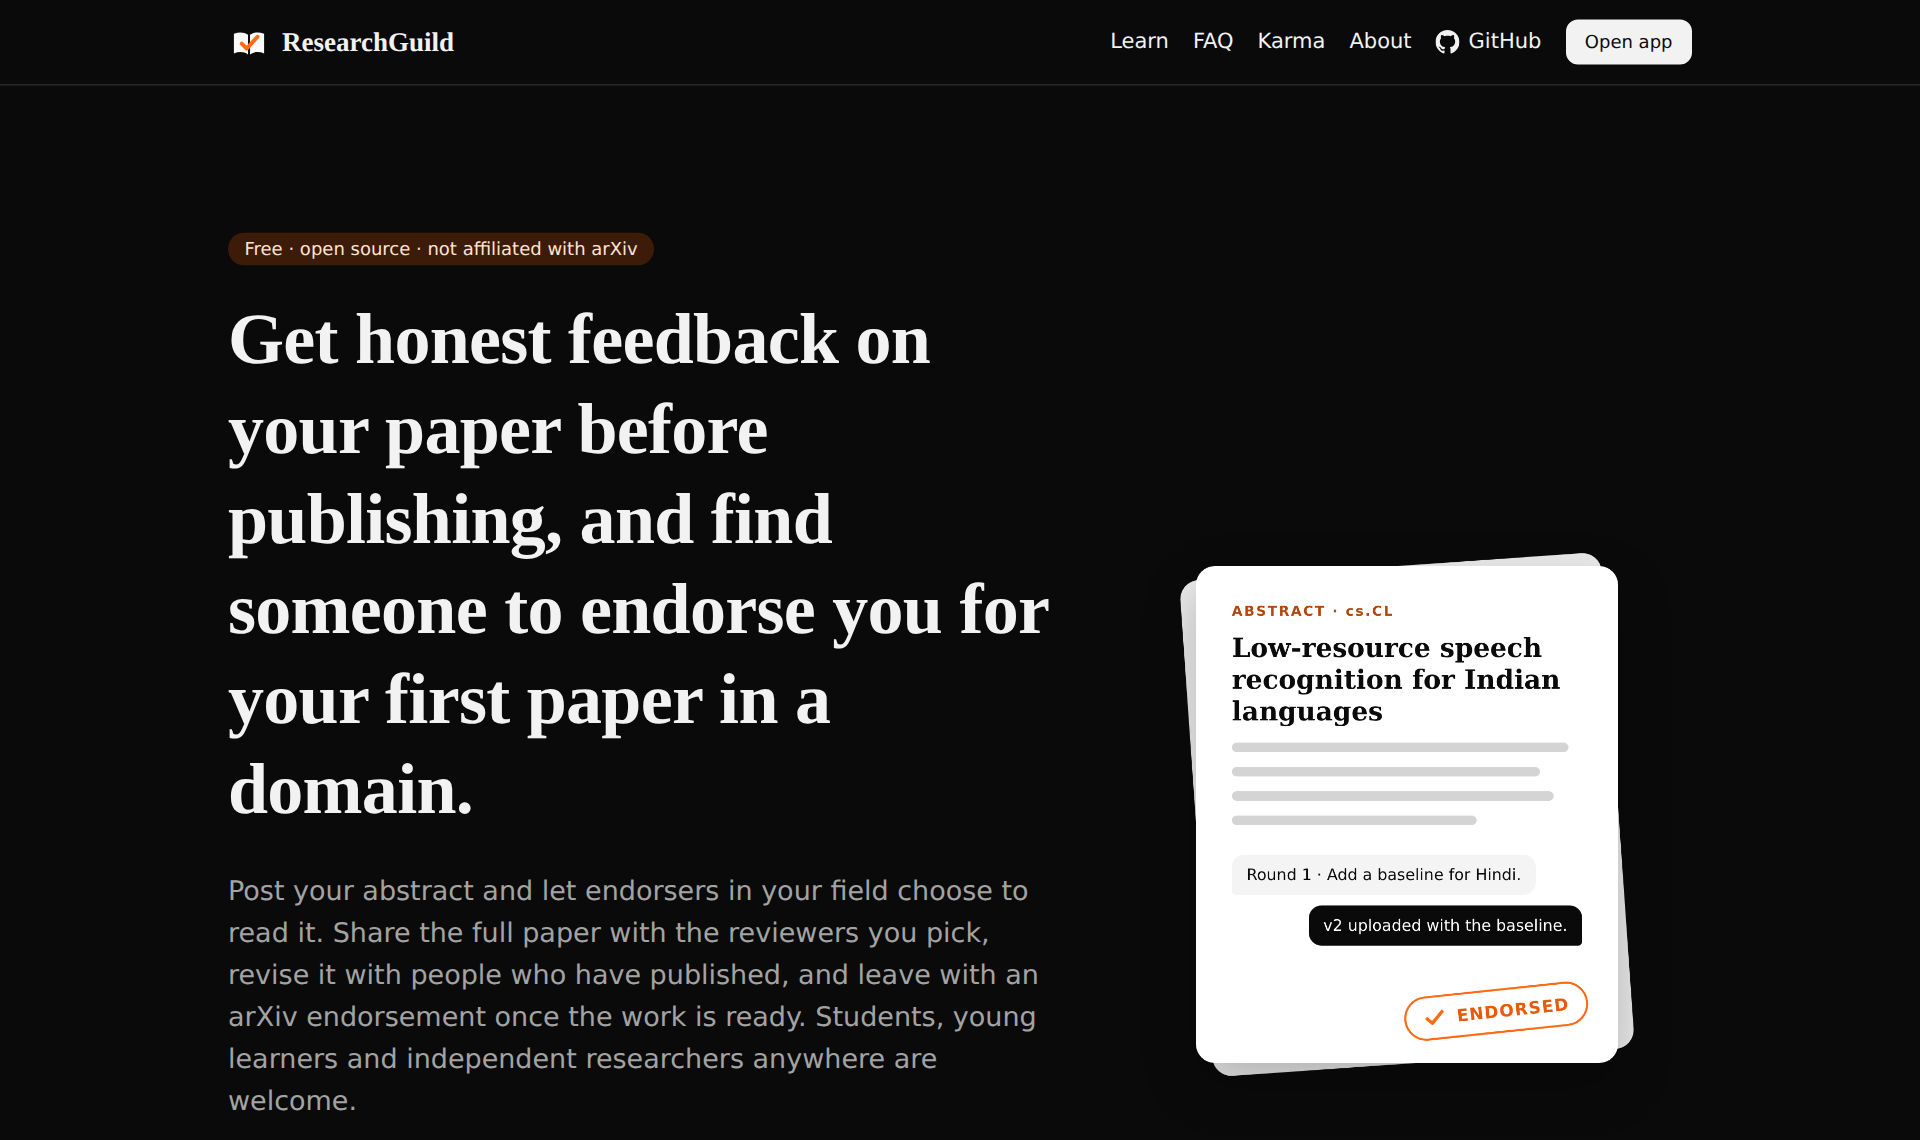
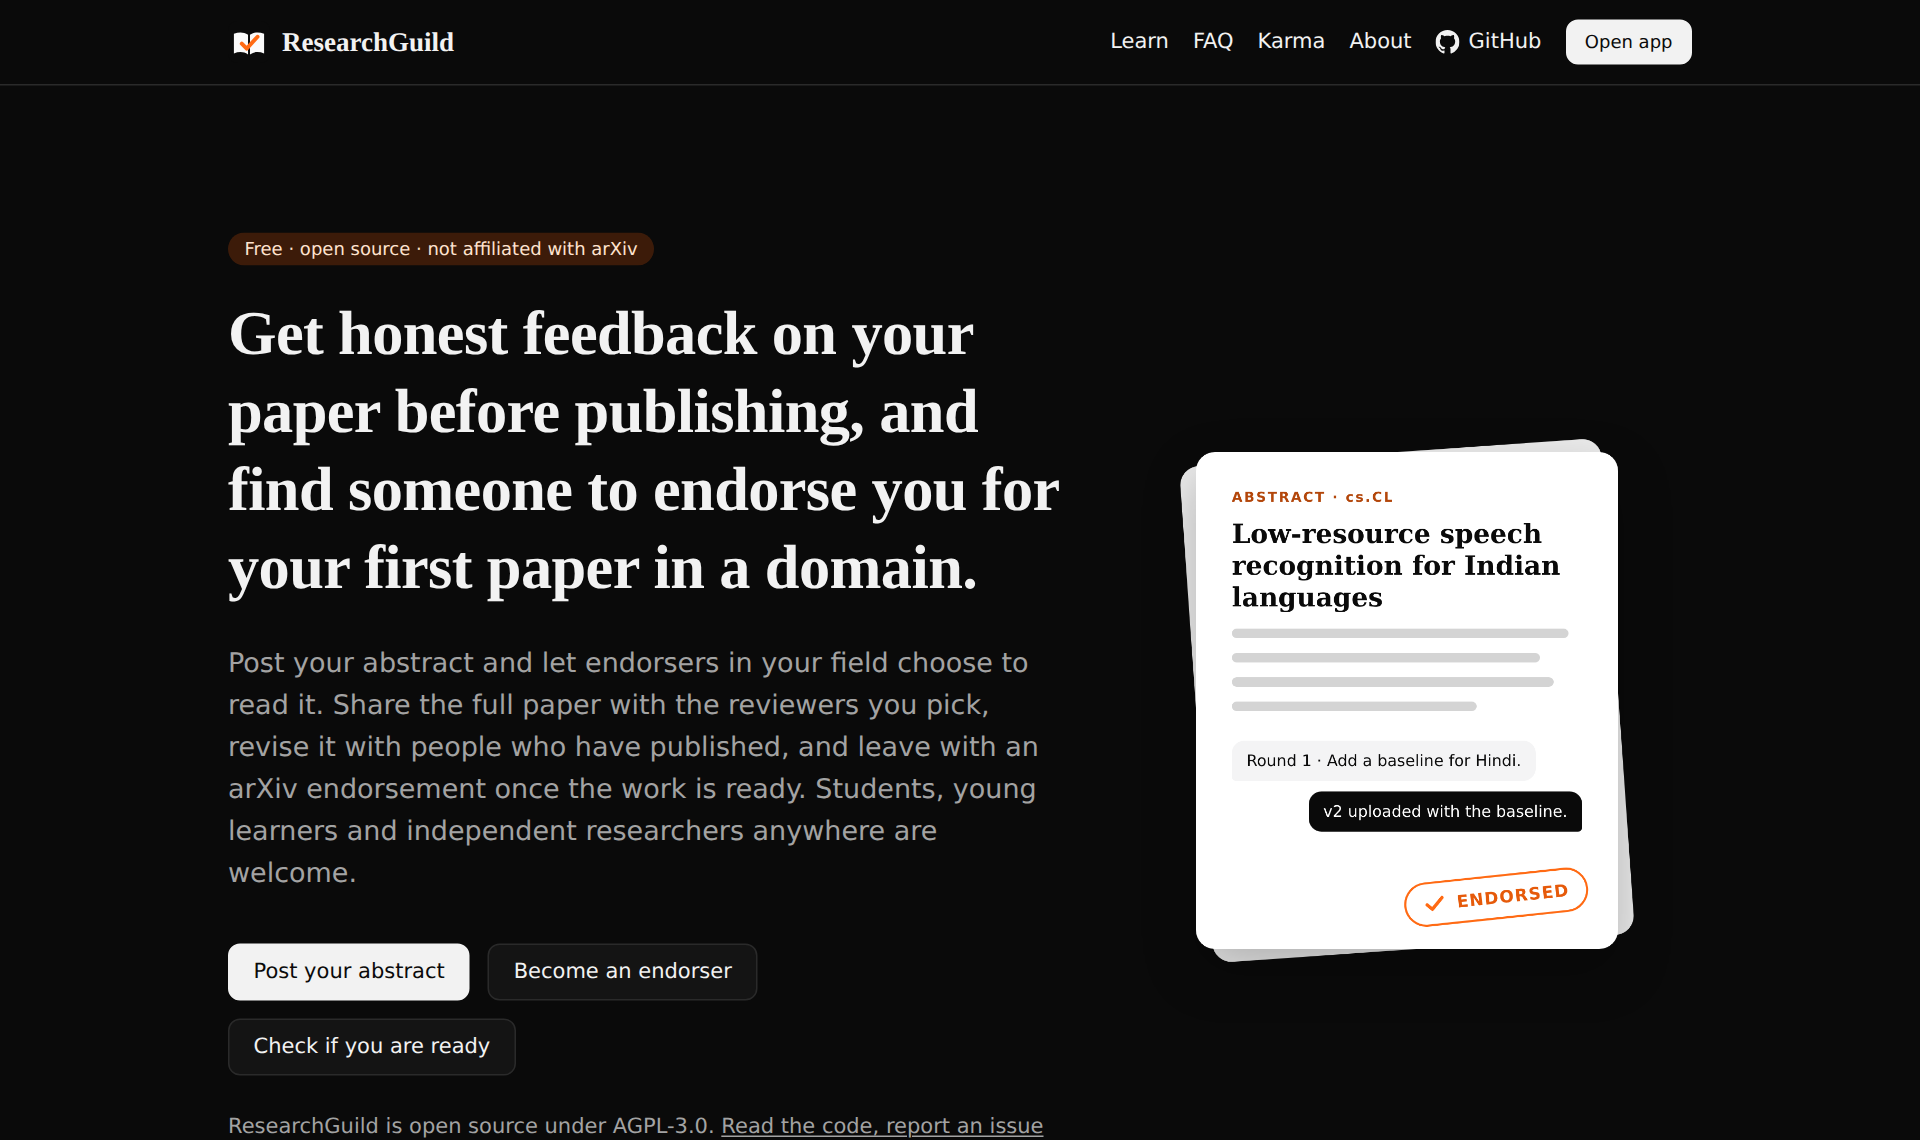
Home page: smaller headline (4 lines on desktop), fix mobile header overlap
Claude-Session: https://claude.ai/code/session_01VBqtYbz55tVsRNEY4KaHsK

Changed region(s): [[0.0938, 0.2763, 0.5625, 1.0], [0.5938, 0.3684, 0.875, 0.9518]]

diff --git a/src/app/(public)/page.tsx b/src/app/(public)/page.tsx
@@ -58,7 +58,7 @@ export default async function Home() {
       <section className="container-page grid items-center gap-10 py-16 sm:py-24 lg:grid-cols-[1fr_380px]">
         <div>
           <p className="badge badge-accent mb-5">Free · open source · not affiliated with arXiv</p>
-          <h1 className="max-w-3xl text-4xl font-semibold leading-tight sm:text-5xl">
+          <h1 className="max-w-3xl text-[1.75rem] font-semibold leading-tight sm:text-4xl xl:text-[2.6rem]">
             Get honest feedback on your paper before publishing, and find someone to endorse you for your first paper in a domain.
           </h1>
           <p className="mt-6 max-w-2xl text-lg muted">

diff --git a/src/components/SiteHeader.tsx b/src/components/SiteHeader.tsx
@@ -27,7 +27,7 @@ export function SiteHeader() {
         <Logo />
         <div className="flex items-center gap-4 text-sm">
           <Link href="/learn" className="hover:underline">Learn</Link>
-          <Link href="/#faq" className="hover:underline">FAQ</Link>
+          <Link href="/#faq" className="hidden hover:underline sm:inline">FAQ</Link>
           <Link href="/karma" className="hidden hover:underline sm:inline">Karma</Link>
           <Link href="/about" className="hidden hover:underline sm:inline">About</Link>
           <GitHubLink />
